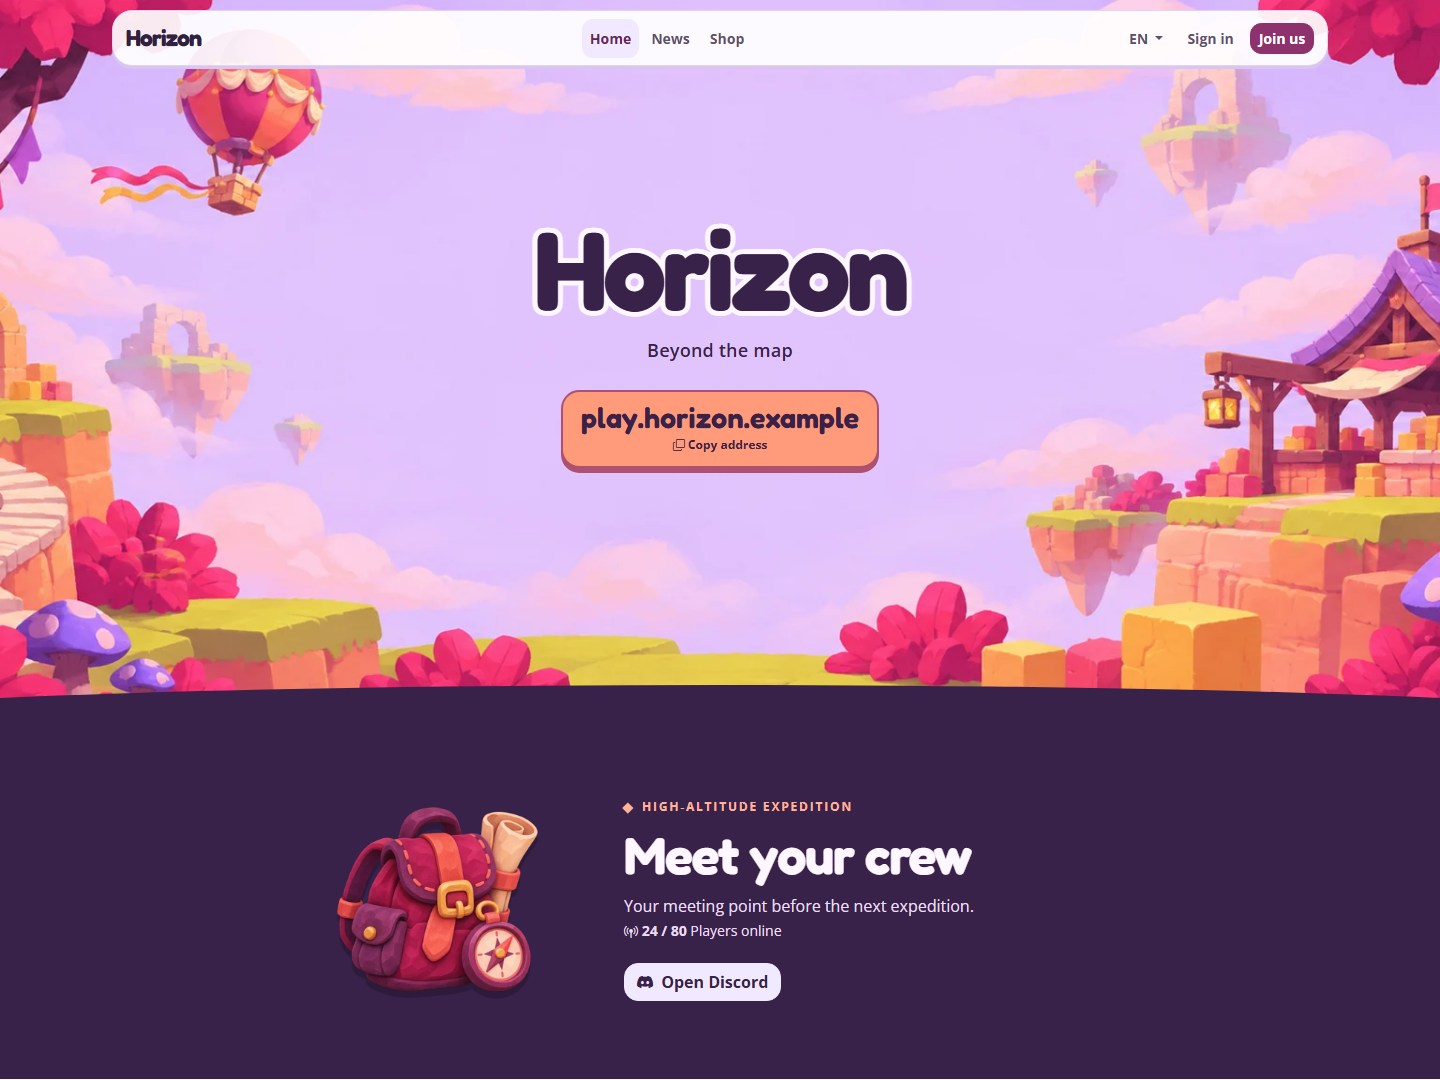
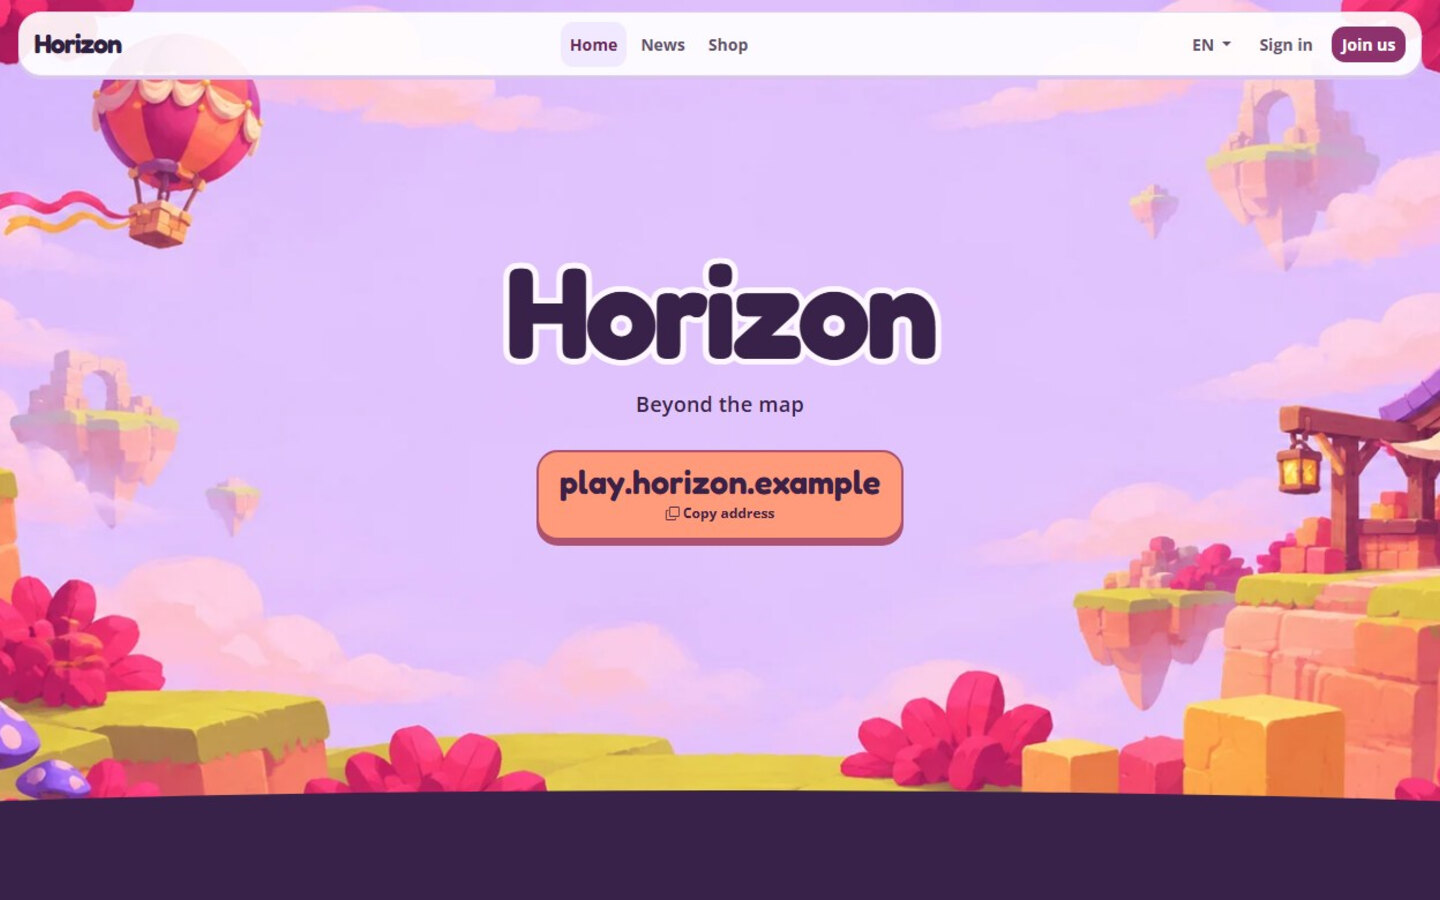
docs(market): add English and French listing

diff --git a/lang/fr/market.php b/lang/fr/market.php
@@ -1,5 +1,5 @@
 <?php
 
 return [
-    'description' => 'Un thème d’aventure aux couleurs pastel, avec un panorama illustré et un carnet de bord pour les actualités du serveur.',
+    'description' => 'Un accueil au milieu d’îles flottantes, avec une adresse de serveur à copier.',
 ];

diff --git a/lang/en/market.php b/lang/en/market.php
@@ -1,5 +1,5 @@
 <?php
 
 return [
-    'description' => 'An adventure theme in pastel colors, with an illustrated panorama and a logbook for server news.',
+    'description' => 'A floating-island homepage with a server address players can copy.',
 ];

diff --git a/lang/fr/market.md b/lang/fr/market.md
@@ -1,0 +1,5 @@
+Sous le paysage, vos joueurs retrouvent les liens de la communauté et le carnet de bord des dernières actualités.
+
+Personnalisez le titre d’accueil et renseignez l’adresse que les joueurs pourront copier. Ajoutez Discord ou vos autres réseaux à l’espace communauté et publiez des actualités pour remplir le carnet.
+
+Dans **Administration → Thèmes**, installez Horizon et cliquez sur **Utiliser pour le site**.

diff --git a/lang/en/market.md b/lang/en/market.md
@@ -1,0 +1,5 @@
+Below the landscape, players find your community links and a logbook with the latest news.
+
+Set your homepage heading and add a public server address for players to copy. Add Discord or other social links to the community section and publish news to fill the logbook.
+
+Install Horizon from **Administration → Themes** and select **Use for website**.
